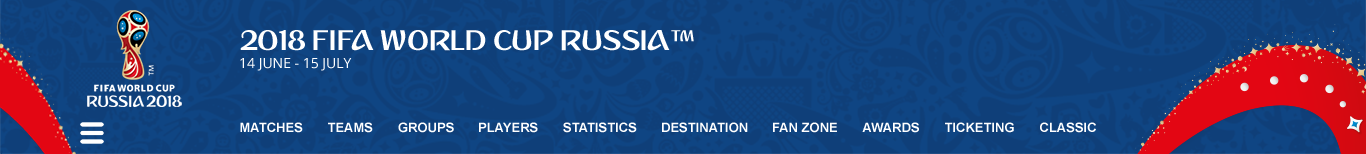
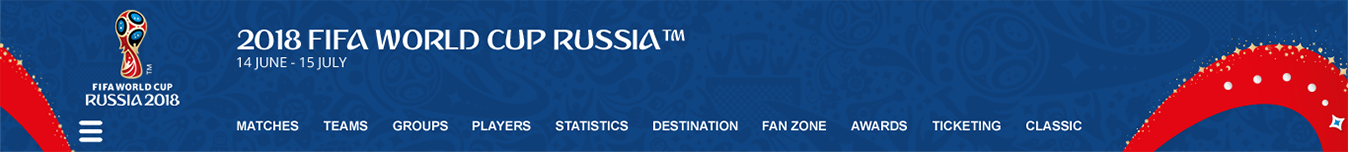
BT Position Fix

diff --git a/Phần 5 - CSS positioning/BT_Position/css/style.css b/Phần 5 - CSS positioning/BT_Position/css/style.css
@@ -1,5 +1,5 @@
 .wrap {
-	max-width: 1366px;
+	max-width: 1348px;
 	margin: auto;
 }
 
@@ -41,24 +41,33 @@ body {
 
 .icon-bar img {
 	max-width: 16px;
-	margin-right: 12px;
+/* 	margin-right: 12px; */
 	vertical-align: middle;
 }
 
 .icon-bar span {
 	font-size: 16px;
-	margin-right: 12px;
+	/* margin-right: 12px; */
+}
+
+.icon-bar-item {
+	float: left;
+	padding-left: 12px;
 }
 
 .banner img {
 	width: 100%;
 }
 
+.banner {
+	position: relative;
+}
+
 .menu-bar {
 	width: 160px;
 	background-color: #ffffff;
 	position: absolute;
-	top: 216px;
+	bottom: -396px;
 	left: 80px;
 }
 
@@ -91,7 +100,6 @@ body {
 
 .photo {
 	position: absolute;
-	top: 220px;
 	left: 246px;
 }
 
@@ -100,7 +108,7 @@ body {
 }
 
 .content {
-	max-width: 1206px;
+	max-width: 1188px;
 	height: 100%;
 	margin: auto;
 }
@@ -133,7 +141,8 @@ body {
 .picture {
 	float: left;
 	width: 25%;
-	padding-left: 20px;
+	padding-left: 15px;
+	padding-right: 15px;
 	margin-top: 20px;
 }
 
@@ -149,20 +158,21 @@ body {
 }
 
 .info .name {
-	font-size: 20px;
+	font-size: 16px;
 	text-transform: uppercase;
 	color: #2e2e2e;
 	margin-bottom: 10px;	
 }
 
 .info .country {
+	font-size: 14px;
 	text-transform: uppercase;
 	color: #999;
 	margin-bottom: 10px;
 }
 
 .info .role {
-	font-size: 14px;
+	font-size: 12px;
 	font-weight: lighter;
 	color: #999;
 }

diff --git a/Phần 5 - CSS positioning/BT_Position/index.html b/Phần 5 - CSS positioning/BT_Position/index.html
@@ -14,21 +14,35 @@
 			</div>
 
 			<div class="icon-bar">
-				<a href="https://www.fifa.com/live-scores">
-					<img src="img/football.png" title="Live Scores">
-				</a>
-				<a href="https://store.fifa.com">
-					<img src="img/store.png" title="Store">
-				</a>
-				<a href="#">
-					<img src="img/login.png" title="Login">
-				</a>
-				<a href="#" title="Language">
-					<span>EN</span>
-				</a>
-				<a href="#">
-					<img src="img/search.png" title="Search">
-				</a>
+				<div class="icon-bar-item">
+					<a href="https://www.fifa.com/live-scores">
+						<img src="img/football.png" title="Live Scores">
+					</a>
+				</div>
+
+				<div class="icon-bar-item">
+					<a href="https://store.fifa.com">
+						<img src="img/store.png" title="Store">
+					</a>
+				</div>
+
+				<div class="icon-bar-item">
+					<a href="#">
+						<img src="img/login.png" title="Login">
+					</a>
+				</div>
+
+				<div class="icon-bar-item">
+					<a href="#" title="Language">
+						<span>EN</span>
+					</a>
+				</div>
+
+				<div class="icon-bar-item">
+					<a href="#">
+						<img src="img/search.png" title="Search">
+					</a>
+				</div>
 			</div>
 		</div>
 
